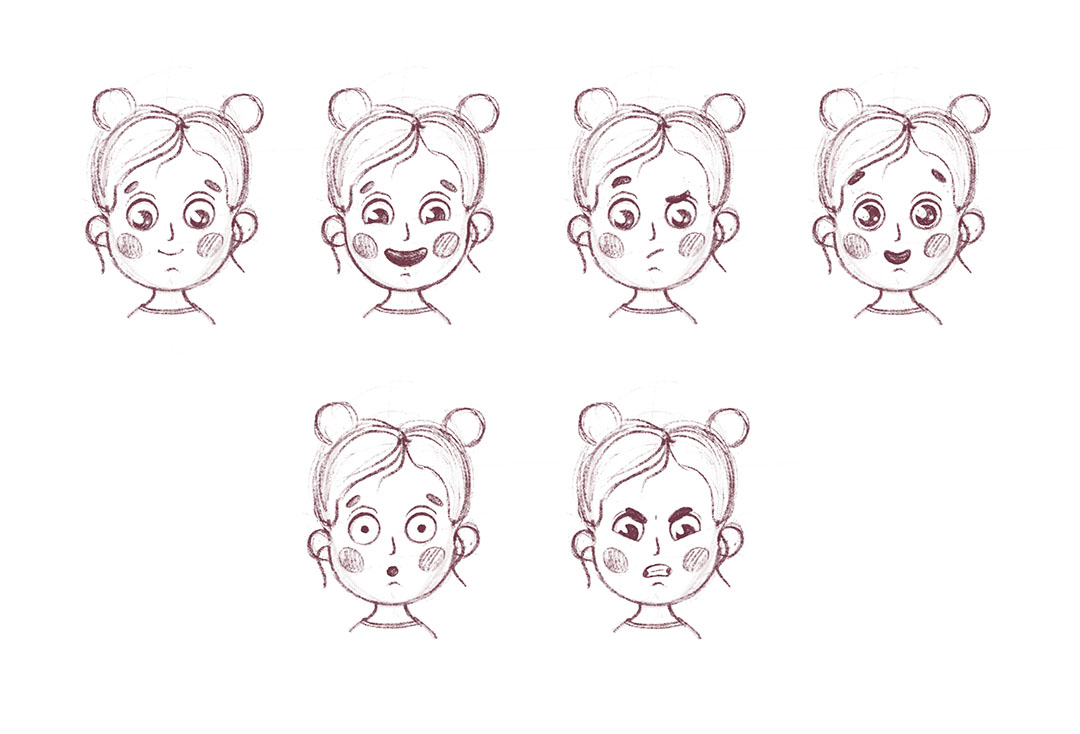
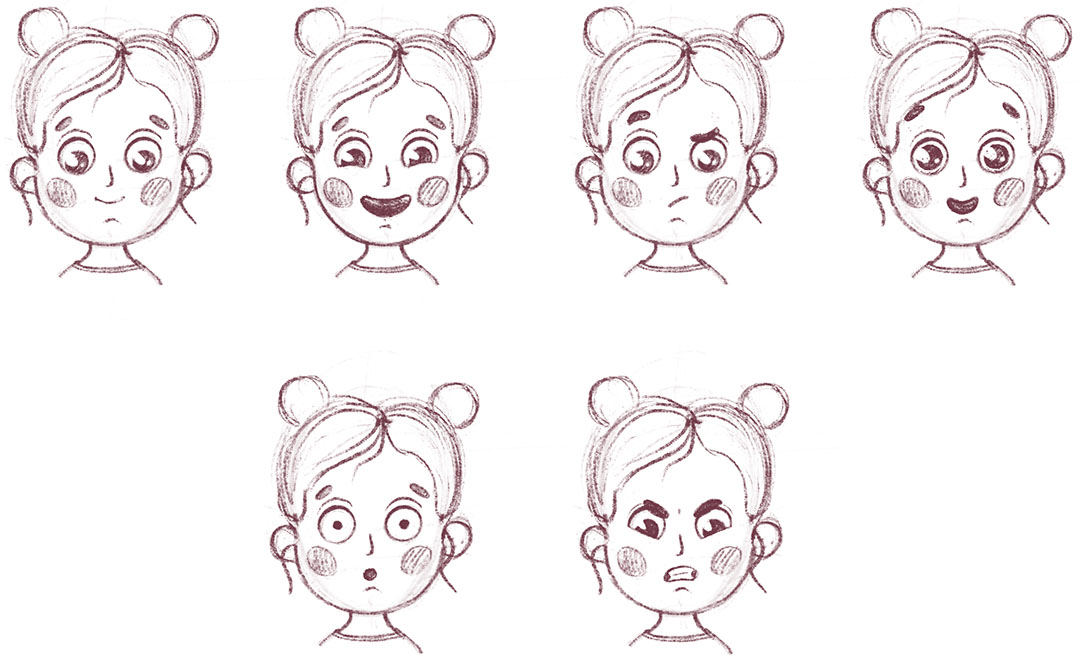
Update images for what-is-happiness

diff --git a/src/app/DB/what-is-happiness.ts b/src/app/DB/what-is-happiness.ts
@@ -68,5 +68,11 @@ export const getWhatIsHappinessProject: () => IProject = () => ({
     {
       src: getSrc('book-cover/3.jpg'),
     },
+    {
+      src: getSrc('book-cover/4.jpg'),
+    },
+    {
+      src: getSrc('book-cover/final.jpg'),
+    },
   ],
 });
